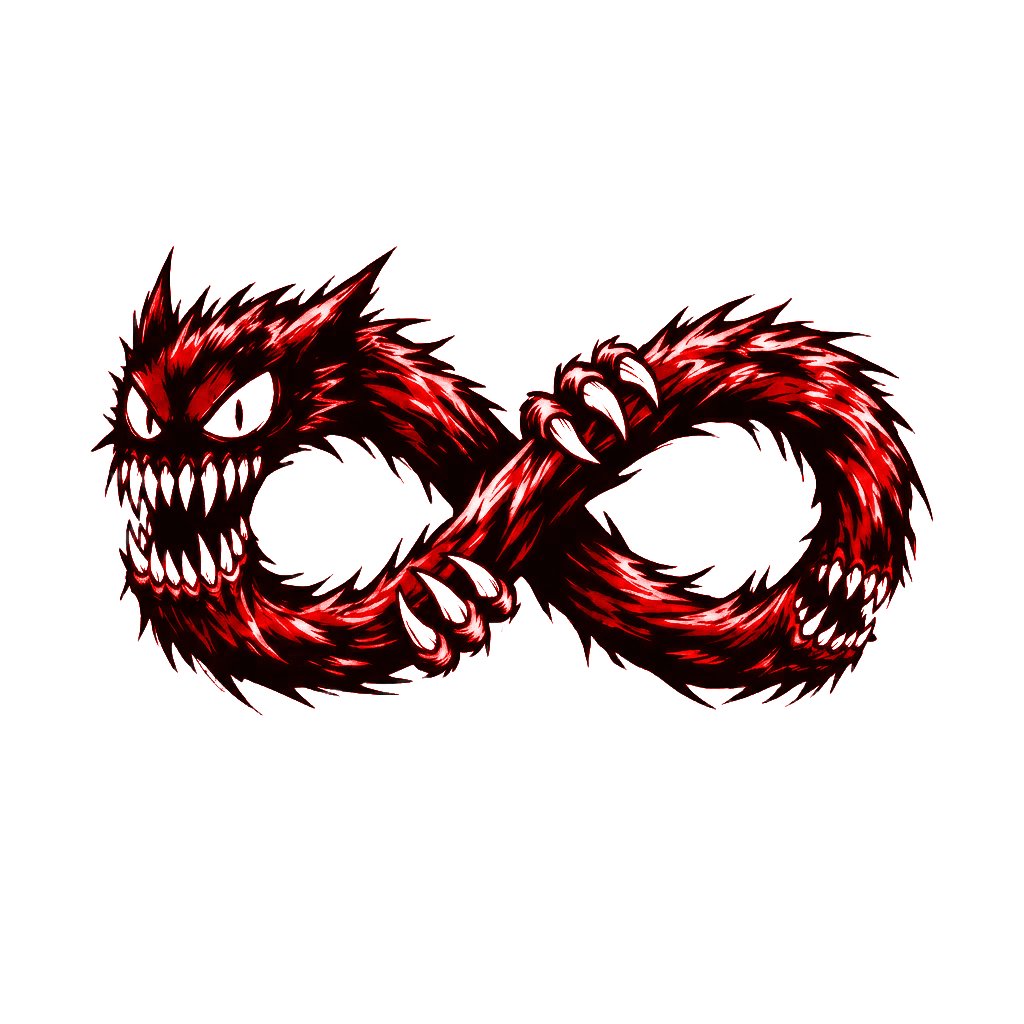
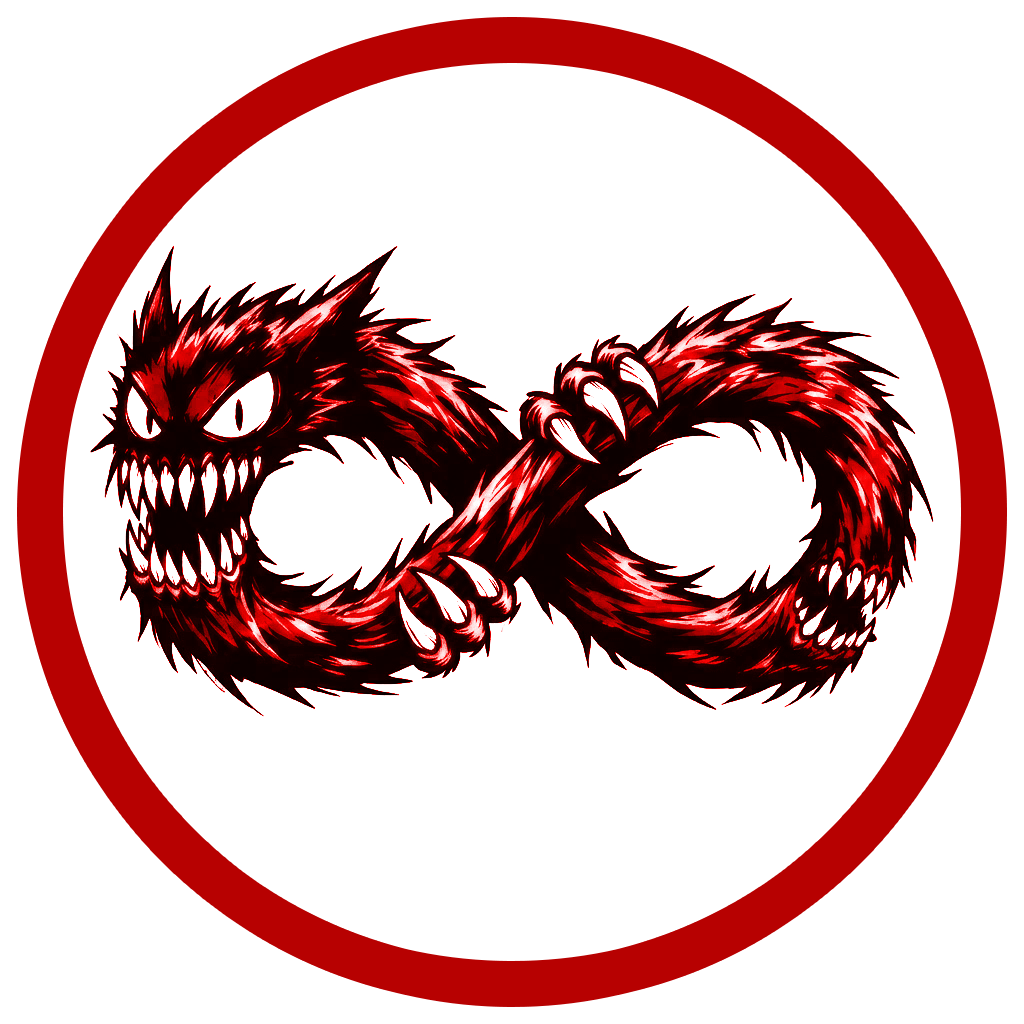
5

Changed region(s): [[0.0, 0.0, 1.0, 1.0], [0.125, 0.4688, 0.1562, 0.5312]]

diff --git a/src/components/landing/Header.tsx b/src/components/landing/Header.tsx
@@ -3,6 +3,7 @@ import { Phone, X, Send } from "lucide-react";
 import { Button } from "@/components/ui/button";
 import { Input } from "@/components/ui/input";
 import { useNavigate } from "react-router-dom";
+import logo from "@/assets/image_2026-03-06_18-30-36 1.png";
 
 const WEBHOOK_URL = "https://hook.eu1.make.com/nz434sx17u2q5mxet3ofqg8y7pzxm1ht";
 
@@ -49,15 +50,18 @@ const Header = () => {
     <>
       <header className="fixed top-0 left-0 right-0 z-50 bg-background/95 backdrop-blur-sm border-b border-border tg-header">
         <div className="container mx-auto px-4 py-3 flex items-center justify-between">
-          <div>
-            <span className="font-extrabold text-xl text-foreground tracking-tight">META MONSTER</span>
-            <p className="text-xs text-muted-foreground">Агенція Meta таргета</p>
+          <div className="flex items-center gap-2 sm:gap-3">
+            <img src={logo} alt="Meta Monster" className="h-7 w-auto sm:h-8 md:h-10 object-contain" />
+            <div className="leading-tight">
+              <span className="font-extrabold text-base sm:text-lg md:text-xl text-foreground tracking-tight">META MONSTER</span>
+              <p className="text-[11px] sm:text-xs text-muted-foreground">Агенція Meta таргета</p>
+            </div>
           </div>
 
           <Button
             id="cta_header_callback"
             size="sm"
-            className="bg-primary hover:bg-primary/90 text-primary-foreground font-semibold text-xs sm:text-sm px-3 sm:px-4"
+            className="bg-primary hover:bg-primary/90 text-primary-foreground font-semibold text-xs sm:text-sm px-3 sm:px-4 py-2 sm:py-2.5 whitespace-nowrap"
             onClick={() => { const w = window as any; w.dataLayer = w.dataLayer || []; w.dataLayer.push({ event: "form_open", source: "header_callback", form_id: "form_header_callback" }); setCallbackOpen(true); }}
           >
             <Phone className="w-3.5 h-3.5 sm:w-4 sm:h-4 mr-1.5 sm:mr-2" />

diff --git a/src/components/landing/HeroSection.tsx b/src/components/landing/HeroSection.tsx
@@ -37,7 +37,8 @@ const HeroSection = () => {
     setPhone(value.slice(0, 13));
   };
 
-  const handleSubmit = async () => {
+  const handleSubmit = async (e: React.FormEvent) => {
+    e.preventDefault();
     if (!/^\+380\d{9}$/.test(phone)) {
       (window as any).__pushDL?.("form_error", { form_id: "form_hero", field: "phone" });
       setPhoneError("Введіть коректний номер: +380XXXXXXXXX");
@@ -59,6 +60,7 @@ const HeroSection = () => {
     setName("");
     setPhone("+380");
     navigate("/thank-you");
+    if (/Telegram/i.test(navigator.userAgent)) { window.location.assign("/thank-you"); }
   };
 
   return (
@@ -157,7 +159,7 @@ const HeroSection = () => {
               </p>
             </div>
 
-            <form id="form_hero" onPointerDownCapture={() => (window as any).__pushFormStartOnce?.("form_hero")} className="space-y-4">
+            <form id="form_hero" onPointerDownCapture={() => (window as any).__pushFormStartOnce?.("form_hero")} onSubmit={handleSubmit} className="space-y-4">
               <Input
                 id="input_name_hero"
                 placeholder="Ваше ім'я"
@@ -177,7 +179,7 @@ const HeroSection = () => {
               {phoneError && <p className="text-destructive text-sm">{phoneError}</p>}
 
               <Button
-                onClick={handleSubmit}
+                type="submit"
                 className="w-full h-12 bg-primary hover:bg-primary/90 text-primary-foreground font-semibold rounded-xl transition-all duration-300 gap-2"
               >
                 <Send className="w-4 h-4" />
